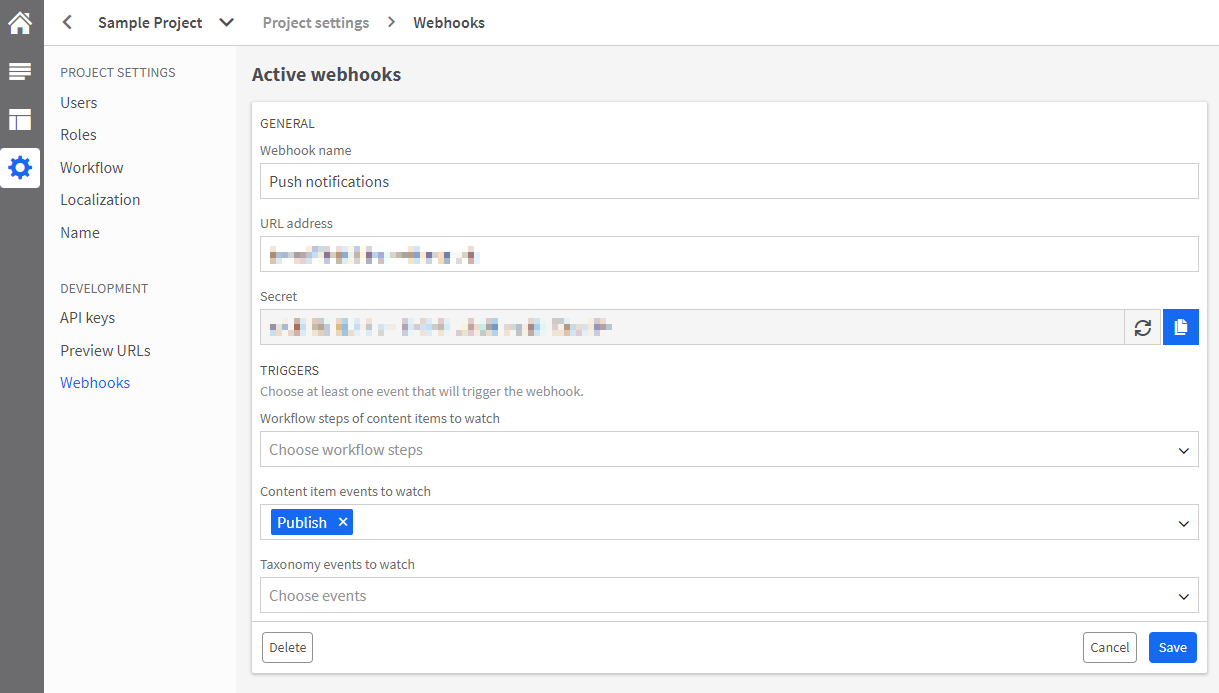
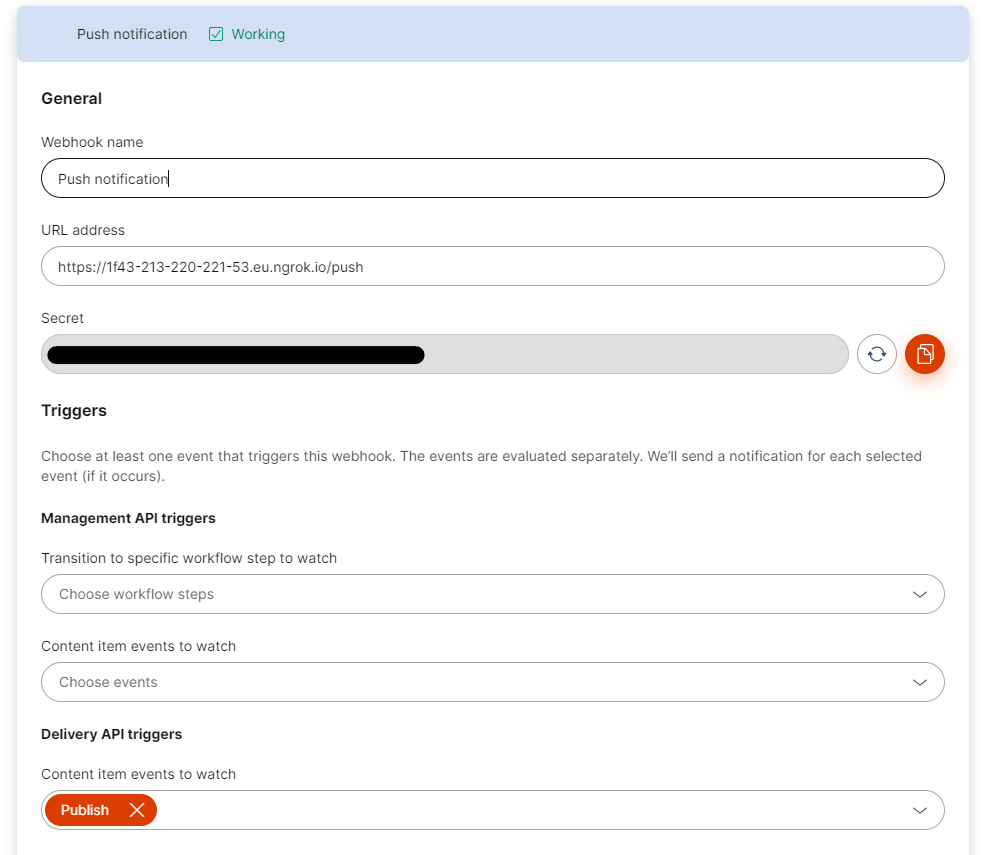
README.md update, tweaks

Changed region(s): [[0.0, 0.0, 1.0, 1.0], [0.2128, 0.9091, 1.0, 1.0], [0.9119, 0.6667, 0.9422, 0.697]]

diff --git a/README.md b/README.md
@@ -3,7 +3,7 @@
 # kontent-sample-app-expressjs
 This is an Express JS application meant for use with the Dancing Goat sample project within Kontent.ai. This fully featured project contains marketing content for Dancing Goat – an imaginary chain of coffee shops. If you don't have your own Sample Project, any admin of a Kontent subscription [can generate one](https://app.kontent.ai/sample-project-generator).
 
-You can read more about our [JavaScript SDKs](https://github.com/kontent-ai/kontent-delivery-sdk-js)
+You can read more about our [JavaScript SDKs](https://github.com/kontent-ai/delivery-sdk-js)
 
 
 ### Setup
@@ -24,7 +24,7 @@ npm start
 
 The application will then be available at localhost:3000 (configurable in /bin/www).
 
-:warning: Due to the optional webhook integration, we've hard-coded the language codes available to the application in [app.js](https://github.com/kontent-ai/kontent-expressjs-app/blob/master/app.js#L12). If necessary, you can update the languages there to match the code names in Kontent:
+:warning: Due to the optional webhook integration, we've hard-coded the language codes available to the application in [app.js](https://github.com/kontent-ai/sample-app-express-js/blob/master/app.js#L12). If necessary, you can update the languages there to match the code names in Kontent:
 
 ```js
 const supportedLangs = ['en-US', 'es-ES'];
@@ -74,7 +74,7 @@ Depending on how your translation service is configured in Azure, you may also n
 translationRegion=westus2
 ```
 
-If you are running the project locally, you can still test webhooks using [ngrok](https://ngrok.com/) (or a similar program). To use ngrok, follow their [setup guide](https://dashboard.ngrok.com/get-started) and in **step 4** use the port number the Express application will run on (3000 by default). When you're done running ngrok, you should see something like the following:
+If you are running the project locally, you can still test webhooks using [ngrok](https://ngrok.com/) (or a similar program). To use ngrok, follow their [setup guide](https://ngrok.com/docs/getting-started) and in **step 4** use the port number the Express application will run on (3000 by default). When you're done running ngrok, you should see something like the following:
 
 ![ngrok](/assets/ngrok-sample.png)
 
@@ -95,7 +95,7 @@ Run your Express application, then move an English language variant into the wor
 
 ### Sending push notifications
 
-This application can also send push notifications to visitors whenever a content item in Kontent is published. You can read [this blog post](https://kontent.ai/blog/sending-push-notifications-from-kontent) to read more about how it works and how to set it up from scratch.
+This application can also send push notifications to visitors whenever a content item in Kontent.ai is published. You can read [this blog post](https://kontent.ai/blog/sending-push-notifications-from-kontent) to read more about how it works and how to set it up from scratch.
 
 To start, you need to create a new content type in Kontent with the codename "push_notification" and the following elements:
 
@@ -110,6 +110,8 @@ Next, go to the __Project settings > Webhooks__ page in Kontent and create a new
 ![push webhook](/assets/pushnotifications-webhook.png)
 
 For the __URL address__, use the /push endpoint, e.g. `https://mysite.com/push`. You can also run the project locally as in the [Automatic content translation](https://github.com/kontent-ai/kontent-sample-app-express-js#automatic-content-translation) section and enter the ngrok URL with /push at the end.
+
+> **NOTE:**  Management API webhook triggers are supported as well. Use /push_cm endpoint instead.
 
 Copy the __Secret__ and add it to `.env` with the "pushSecret" key:
 
@@ -136,6 +138,14 @@ Also add the Public key to the top of `/public/scripts/client.js`:
 ```
 const publicVapidKey = '<public key>';
 ```
+
+The application uses SQLite database to store push notification subscriptions. Make sure to specify dbPath in the `.env` file, e.g.:
+
+```
+const dbPath = subs.sqlite';
+```
+
+The database will be created automatically on first subsribe attempt.
 
 You're ready to test the notification now! Make sure to access your site via _https_; push notifications will not work over insecure connections. When you access the site, your browser will prompt you to accept notifications from the website. Accept it, and you should see a successful POST to `/subscribe` in the browser's Network tab.
 
